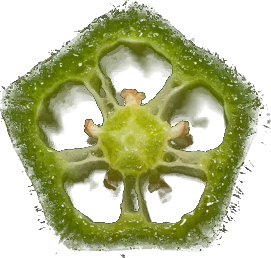
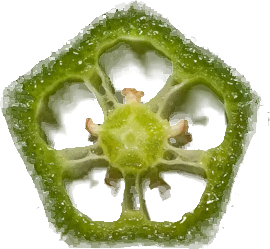
Produits: erode cut-out edges (kill halos) + real avocado
- Edge erosion on banane, citron jaune, citron vert, gombo, piment to
  remove the bg-coloured fringe/halo that showed on the gold sections
- Avocat now uses the real avocado cut-out (the supplied photo was a
  courgette); drop the courgette png

diff --git a/src/pages/Produits.jsx b/src/pages/Produits.jsx
@@ -26,7 +26,7 @@ const SECTIONS = [
   },
   {
     type: "product", id: "avocat", side: "right", bg: "#1C3326",
-    png: "/png/prod-avocat.png", collection: "SIGNATURE", num: "02", name: "Avocat",
+    png: "/png/avocat.png", collection: "SIGNATURE", num: "02", name: "Avocat",
     desc: "Onctuosité dense, maturation maîtrisée. Une texture beurrée recherchée par les marchés les plus exigeants.",
     meta: { "Origine": "Afrique de l'Ouest", "Disponibilité": "Toute l'année", "Standard": "Export Premium" },
   },
